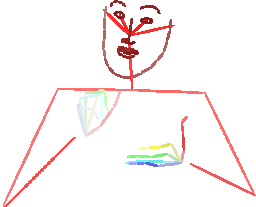
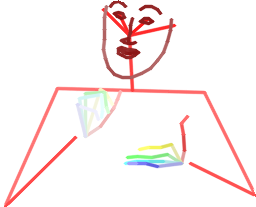
feat(pose-visualizer): allow overriding line thickness

diff --git a/pose_format/pose_visualizer.py b/pose_format/pose_visualizer.py
@@ -13,13 +13,14 @@ from .pose import Pose
 
 
 class PoseVisualizer:
-  def __init__(self, pose: Pose):
+  def __init__(self, pose: Pose, thickness=None):
     self.pose = pose
+    self.thickness = thickness
 
   def _draw_frame(self, frame: ma.MaskedArray, frame_confidence: np.ndarray, img) -> np.ndarray:
     background_color = img[0][0]  # Estimation of background color for opacity. `mean` is slow
 
-    thickness = round(math.sqrt(img.shape[0] * img.shape[1]) / 300)
+    thickness = self.thickness if self.thickness is not None else round(math.sqrt(img.shape[0] * img.shape[1]) / 150)
     radius = round(thickness / 2)
 
     for person, person_confidence in zip(frame, frame_confidence):
@@ -58,7 +59,7 @@ class PoseVisualizer:
 
               color = tuple(np.mean([_point_color(p1), _point_color(p2)], axis=0))
 
-              cv2.line(img, point1, point2, color, thickness * 2, lineType=16)
+              cv2.line(img, point1, point2, color, thickness, lineType=cv2.LINE_AA)
 
 
               # deg = math.degrees(math.atan2(point1[1] - point2[1], point1[0] - point2[0]))

diff --git a/sample-data/test.py b/sample-data/test.py
@@ -2,14 +2,14 @@ import math
 import torch
 from pose_format.torch.representation.inner_angle import InnerAngleRepresentation
 
-from pose_format.pose_visualizer import PoseVisualizer
 
 from pose_format import Pose
+from pose_format.pose_visualizer import PoseVisualizer
+from pose_format.numpy.pose_body import NumPyPoseBody
 
 # import tensorflow as tf
 import numpy as np
 
-from pose_format.numpy.pose_body import NumPyPoseBody
 # from pose_format.tensorflow.pose_body import TensorflowPoseBody, TF_POSE_RECORD_DESCRIPTION
 from pose_format.torch.masked import MaskedTensor
 

diff --git a/setup.py b/setup.py
@@ -11,7 +11,7 @@ print(packages)
 setup(
   name='pose_format',
   packages=packages,
-  version='0.0.3',
+  version='0.0.4',
   description='Library for viewing, augmenting, and handling .pose files',
   author='Amit Moryossef',
   author_email='amitmoryossef@gmail.com',
